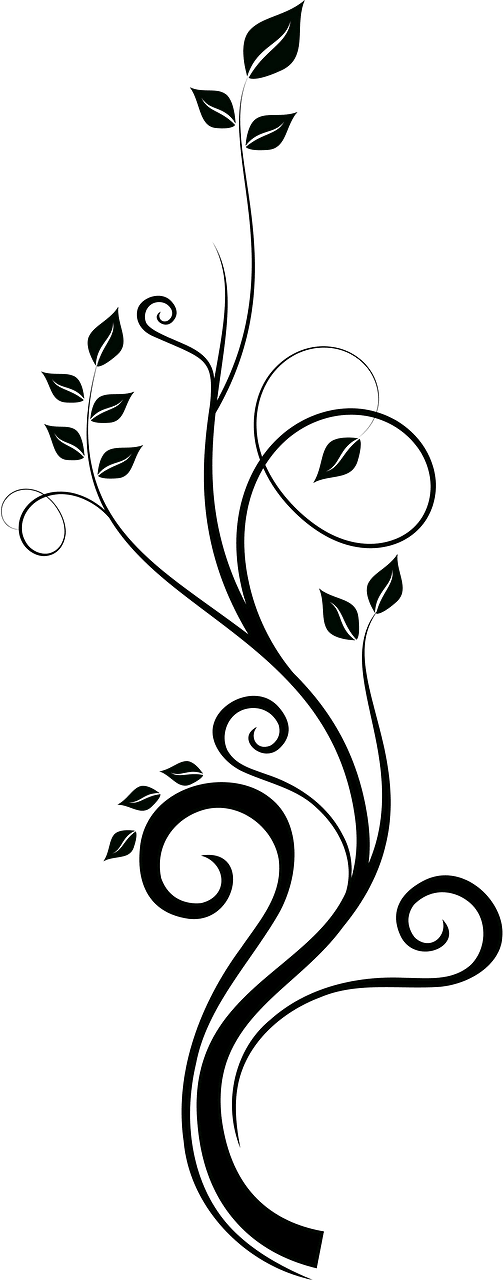
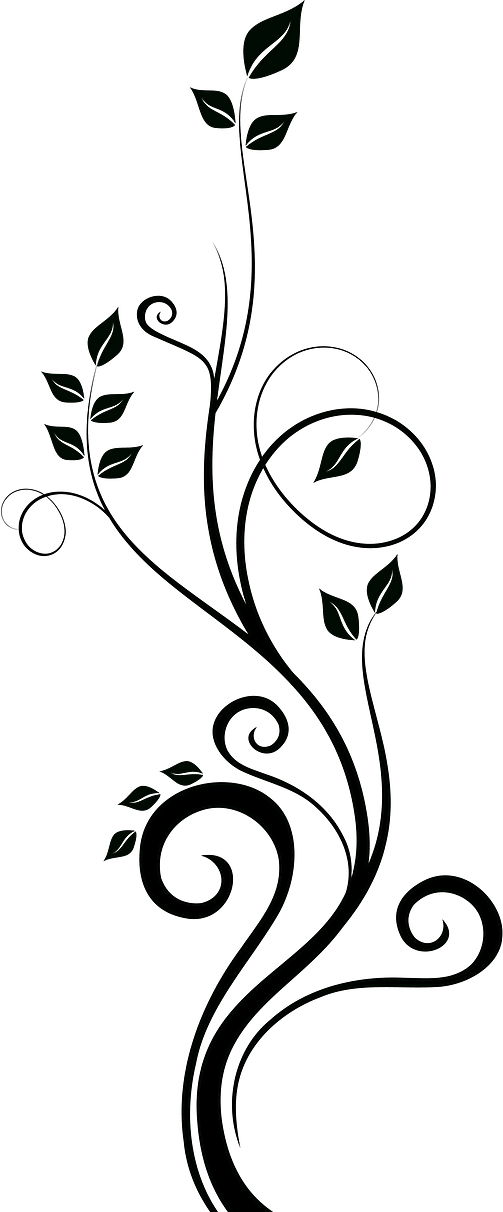
Cantos dourados adicionados no InfoPanel

Changed region(s): [[0.0, 0.0, 1.0, 1.0], [0.5368, 0.2748, 0.5964, 0.3053]]

diff --git a/frontend/src/app/components/InfoPanel.tsx b/frontend/src/app/components/InfoPanel.tsx
@@ -1,11 +1,41 @@
+type CornerPosition = 'top-0' | 'bottom-0' | 'left-0' | 'right-0';
+
+function GoldenCorner({x, y}: {x: CornerPosition, y: CornerPosition}) {
+  /*Identificar a direção oposta, para definir o semicírculo marrom*/
+  const opposite: Record<CornerPosition, CornerPosition> = {
+    'top-0': 'bottom-0',
+    'bottom-0': 'top-0',
+    'left-0': 'right-0',
+    'right-0': 'left-0',
+  };
+
+  /*Identificar a direção do arredondamento*/
+  const roundMap: Record<string, string> = {
+    'top-0 left-0': 'rounded-tl-full',
+    'top-0 right-0': 'rounded-tr-full',
+    'bottom-0 left-0': 'rounded-bl-full',
+    'bottom-0 right-0': 'rounded-br-full'
+  };
+
+  const roundKey = `${x} ${y}`;
+  const roundClass = roundMap[roundKey];
+
+  /*Componente final*/
+  return (
+    <div className={`absolute ${x} ${y} w-15 h-15 bg-amber-800`}>
+      <div className={`absolute ${opposite[x]} ${opposite[y]} w-10 h-10 bg-stone-900 ${roundClass}`}/>
+    </div>
+  );
+}
+
 export default function InfoPanel() {
   return (
     <div className="relative flex w-full md:w-80 bg-stone-900 h-full rounded-r-2xl flex-[0.25] items-center justify-center">
       {/*Cantos dourados*/}
-      <div className="absolute top-0 left-0 w-10 h-10 bg-amber-800 rounded-br-lg"></div>
-      <div className="absolute top-0 right-0 w-10 h-10 bg-amber-800 rounded-bl-lg"></div>
-      <div className="absolute bottom-0 left-0 w-10 h-10 bg-amber-800 rounded-tr-lg"></div>
-      <div className="absolute bottom-0 right-0 w-10 h-10 bg-amber-800 rounded-tl-lg"></div>
+      <GoldenCorner x={"top-0"} y={"left-0"}/>
+      <GoldenCorner x={"top-0"} y={"right-0"}/>
+      <GoldenCorner x={"bottom-0"} y={"left-0"}/>
+      <GoldenCorner x={"bottom-0"} y={"right-0"}/>
 
       {/*Componentes do painel de informações*/}
       <p className="font-petitfleur text-[500%] text-stone-300 italic">P</p>

diff --git a/frontend/src/app/components/Background.tsx b/frontend/src/app/components/Background.tsx
@@ -7,8 +7,8 @@ export default function Background(){
         <div className="relative flex-[0.75] bg-amber-100 h-full rounded-l-2xl flex items-center justify-center">
             {/*Imagens de fundo*/}
             <Image src={pagecorner} alt='' className='absolute top-0 left-0 h-[15vw] w-auto object-scale-down border-5'/>
-            <Image src={vine} alt='' className="absolute top-0 right-0 h-[25vw] w-auto rotate-180 object-contain"/>
-            <Image src={vine} alt='' className="absolute bottom-0 right-0 h-[25vw] w-auto object-contain"/>
+            <Image src={vine} alt='' className="absolute top-0 right-0 h-[23vw] w-auto rotate-180 object-contain"/>
+            <Image src={vine} alt='' className="absolute bottom-0 right-0 h-[23vw] w-auto object-contain"/>
             {/*Aqui viria a componente da área do texto*/}
             <p className="font-petitfleur text-[500%] text-gray-500 italic">A</p>
             <p className="font-bouwsma text-gray-500 italic">rea do texto</p>
